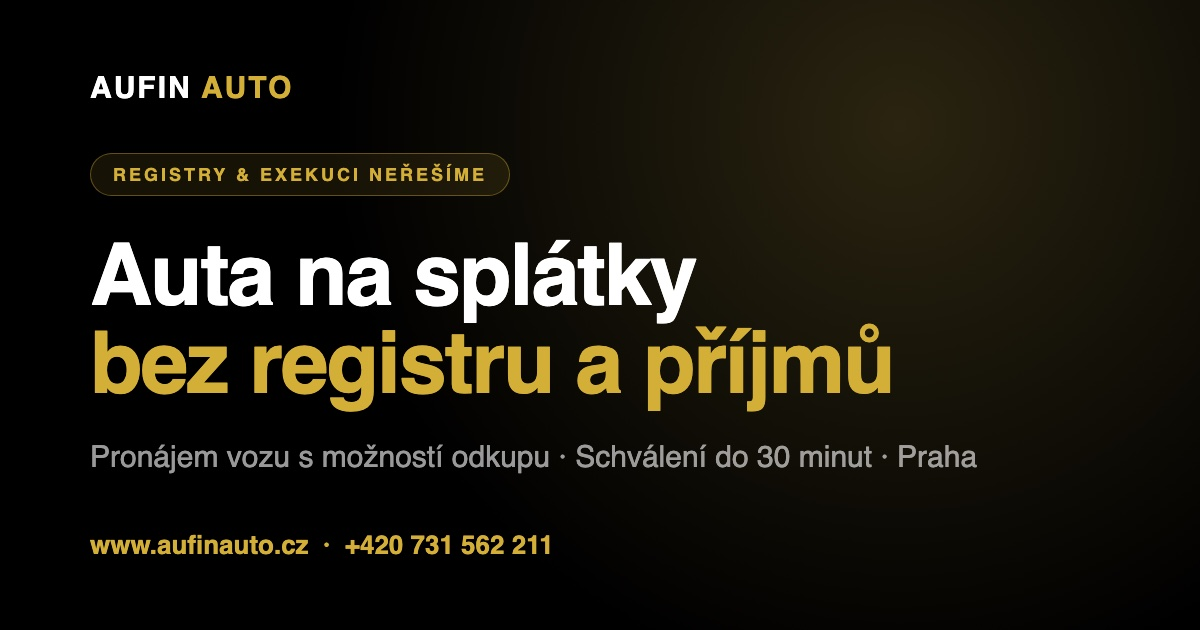
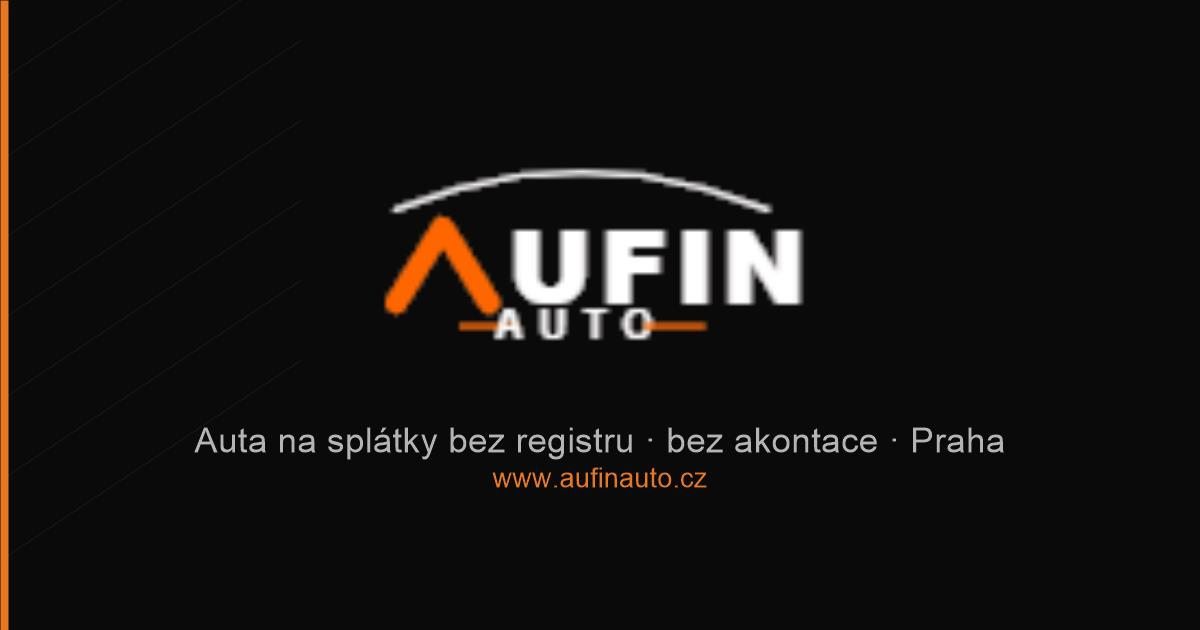
Kompletní redesign webu

diff --git a/src/App.tsx b/src/App.tsx
@@ -531,7 +531,7 @@ export default function App() {
           <div className="absolute inset-0 bg-black/20 z-10" />
           <div className="absolute inset-0 bg-gradient-to-t from-black via-transparent to-black/10 z-10" />
           <img
-            src="https://images.unsplash.com/photo-1549317661-bd32c8ce0db2?auto=format&fit=crop&q=80&w=1920"
+            src="/hero.png"
             alt="Auto na splátky bez registru – AUFIN AUTO Praha"
             fetchPriority="high"
             loading="eager"
